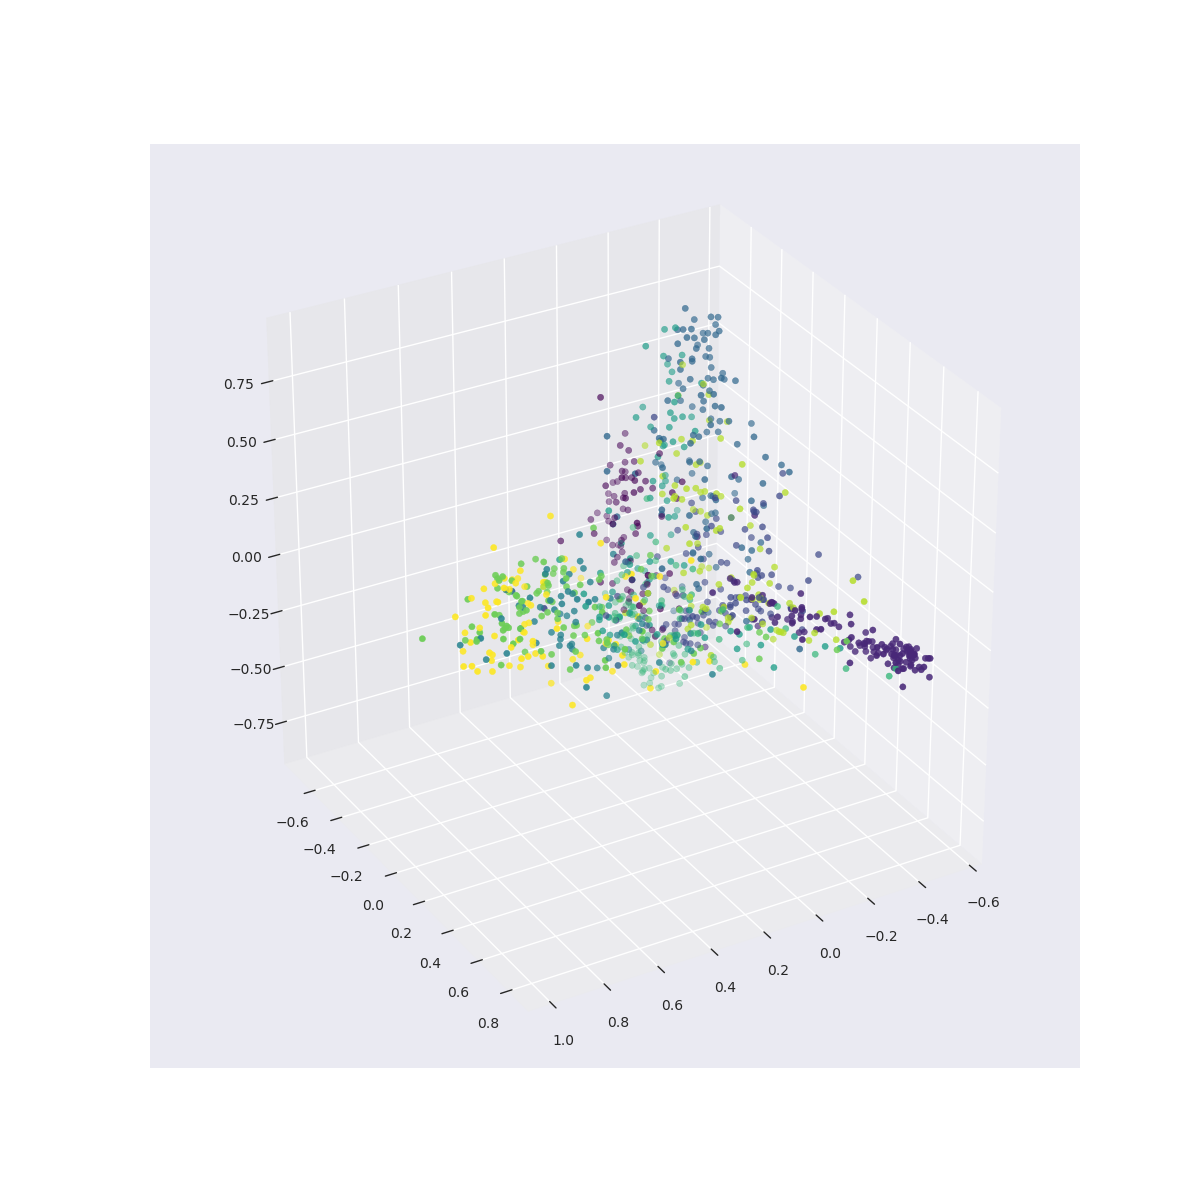
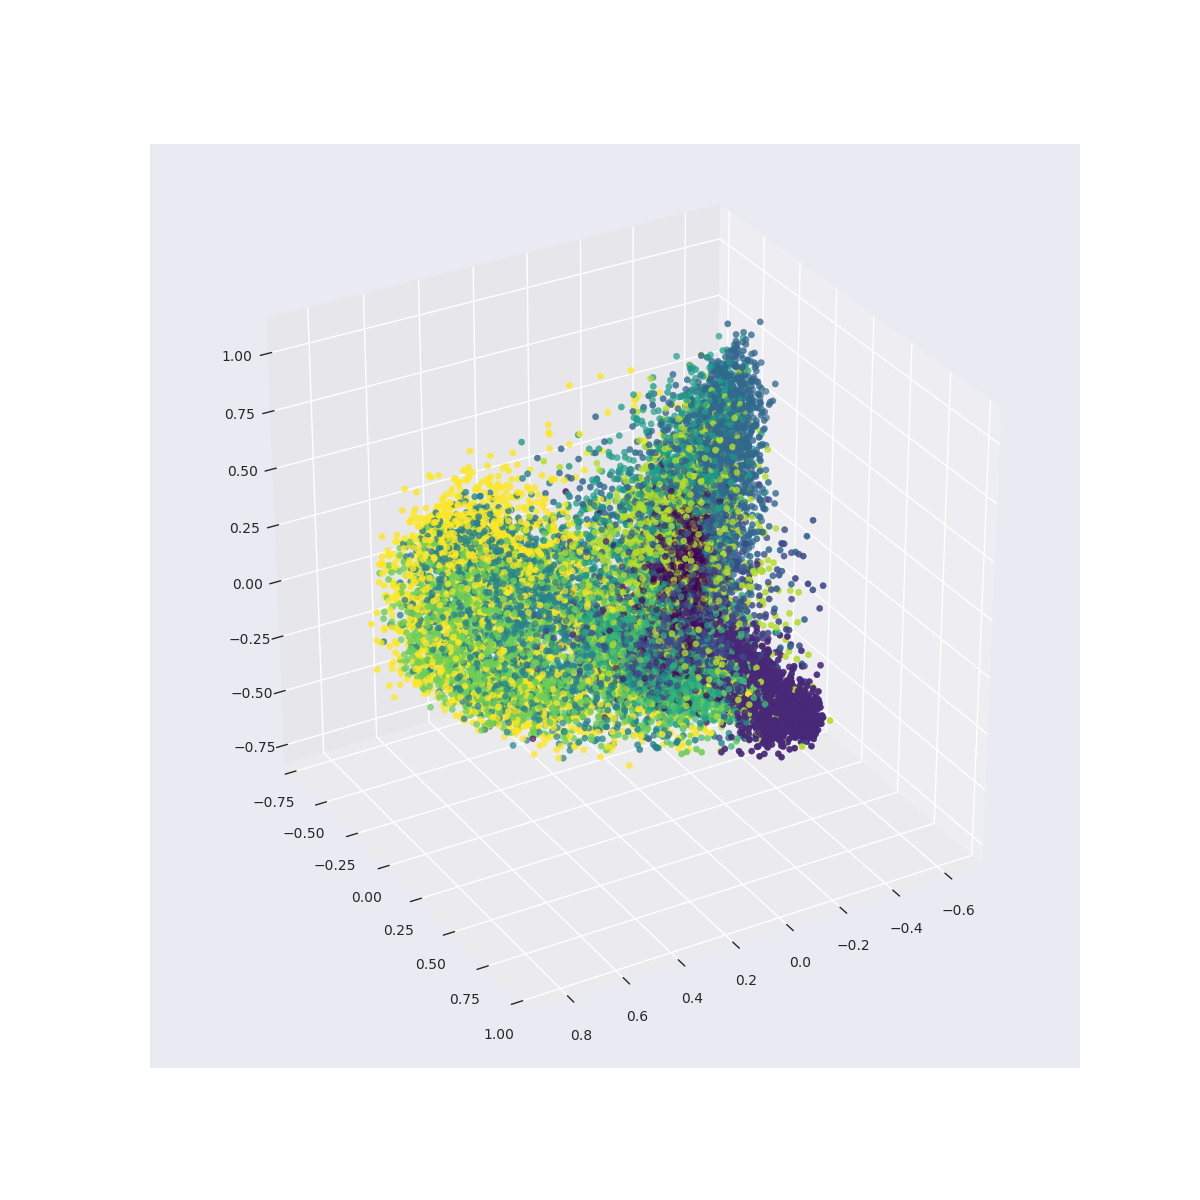
Partial run one full data set

diff --git a/pr5.py b/pr5.py
@@ -1,12 +1,12 @@
 from shared_imports import *
 
 # testing
-subsample_no = 100
-batch_size = 10
-epochs = 10
+#subsample_no = 100
+#batch_size = 10
+#epochs = 10
 
 # full
-subsample_no = 0
+subsample_no = 5000
 batch_size = 128
 epochs = 100
 

diff --git a/pr2.py b/pr2.py
@@ -1,11 +1,11 @@
 from shared_imports import *
 
 # testing
-subsample_no = 1000
-epochs = 10
+#subsample_no = 1000
+#epochs = 10
 
 # full
-subsample_no = 0
+subsample_no = 20000
 epochs = 100
 
 # get similarity measure from user

diff --git a/pr1.py b/pr1.py
@@ -1,9 +1,9 @@
 from shared_imports import *
 
 # testing
-subsample_no = 50
-batch_size = 10
-epochs = 10
+#subsample_no = 50
+#batch_size = 10
+#epochs = 10
 
 # full
 subsample_no = 0
